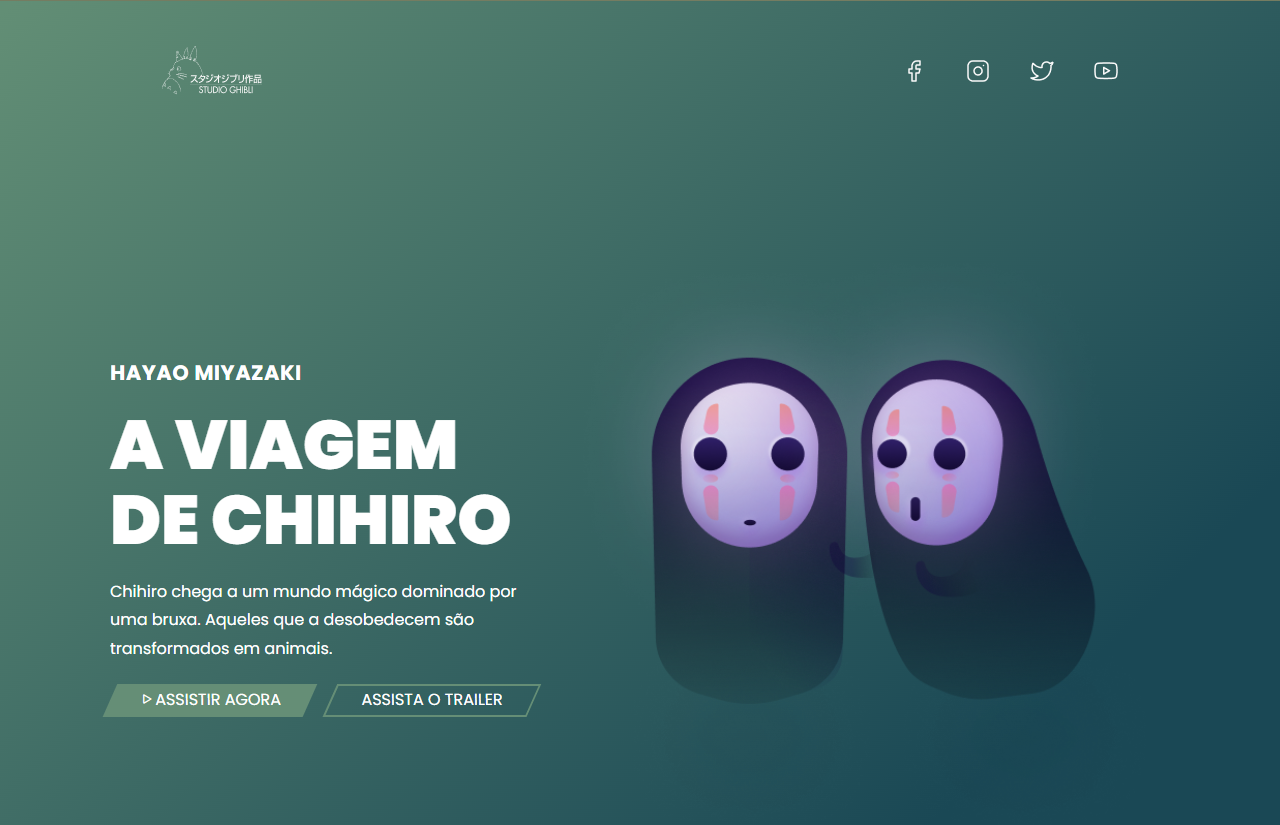
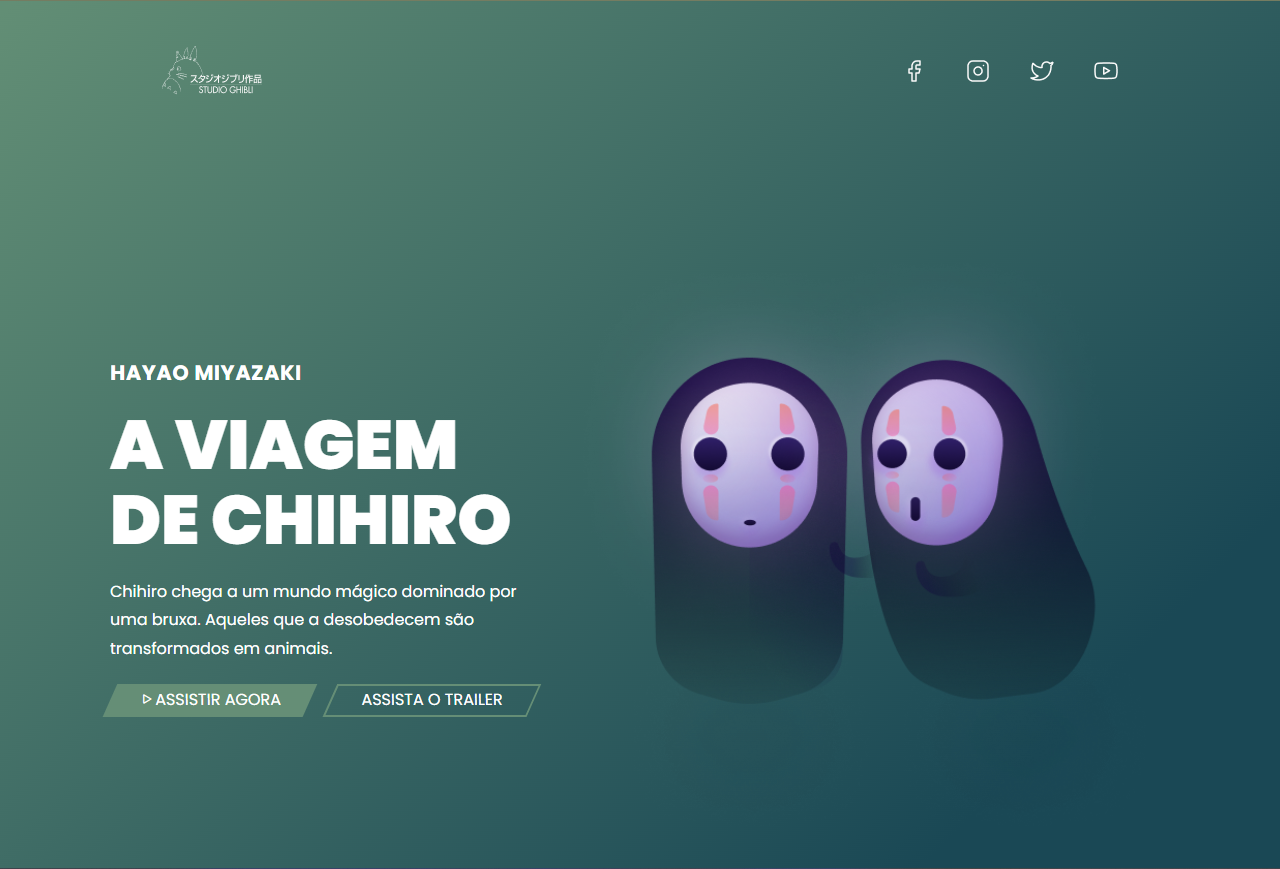
Ajuste nos cards de projetos e ajuste do hover dos icones que linka para as paginas

diff --git a/style.css b/style.css
@@ -9,45 +9,22 @@
     font-family: 'Sora';
 }
 
+body {
+    display: flex;
+    flex-flow: column nowrap;
+    width: 100vw;
+}
+
 header {
     display: flex;
-    flex-direction: column;
+    flex-flow: column nowrap;
     justify-content: center;
     color: white;
     height: 400px;
-    width: 100vw;
     background: rgb(34,193,195);
     background: linear-gradient(20deg, rgba(34,193,195,1) 0%, rgb(57, 15, 211) 100%);
-    box-shadow: 0px 8px 20px rgb(57, 15, 211);
+    box-shadow: 0px 8px 20px #555;
 }
-
-/* header::before {
-    content: "";
-    position: absolute;
-    left: 0;
-    right: 0;
-    z-index: -1;
-    background: linear-gradient(0deg, rgba(255, 255, 255, 0), rgba(24, 0, 63, 0.99));
-    background-size: 25vw;
-    height: 25vw;
-}
-
-header::after {
-    content: "";
-    position: absolute;
-    left: 0;
-    right: 0;
-    z-index: -2;
-    background: url(img/header-wallpaper3.png) no-repeat;
-    background-size: 25vw;
-    background-position: center;
-    height: 25vw;
-    -webkit-filter: blur(5px);
-    -moz-filter: blur(5px);
-    -o-filter: blur(5px);
-    -ms-filter: blur(5px);
-    filter: blur(5px);
-} */
 
 .header-time{
     display: flex;
@@ -77,20 +54,50 @@ main {
     width: 90vw;
     display: flex;
     flex-flow: row wrap;
-    justify-content: space-around;
+    justify-content: space-evenly;
     align-items: center;
-    gap: 10px;
+    gap: 40px 15px;
 }
 
-.projects img {
-    box-shadow: 2px 5px 10px #4c199efc;
+.project {
+    display: flex;
+    align-items: center;
+    justify-content: center;
+}
+
+.project-img {
+    box-shadow: 2px 5px 10px #444;
     width: 530px;
     border-radius: 5px;
+    display: block;
 }
 
-.projects img:hover {
-    cursor: pointer;
-    
+.project:hover {
+    transition: 1s;
+    filter: blur(1px);
+}
+
+.project:hover .overlay {
+    opacity: 1;
+}
+
+.overlay {
+    width: 530px;
+    position: absolute;
+    display: flex;
+    justify-content: center;
+    flex-flow: row nowrap;
+    column-gap: 40px;
+    opacity: 0;
+    transition: .3s ease;
+}
+
+.bi {
+    font-size: 90px;
+}
+
+.project:hover .bi::after{
+
 }
 
 @media only screen and (min-width: 1025px) {
@@ -111,32 +118,14 @@ main {
     }
 
     .header-time{
-        padding-left: 1vw;
+        padding-left: 2vw;
     }
 }
 
-@media only screen and (max-width: 480px) {
-    header {
-        height: 100vw;
-        text-align: left;
-    }
+@media only screen and (max-width:768px) {
 
-    header::before {
-        background-size: 100vw;
-        height: 100vw;
-    }
-    
-    header::after {
-        background-size: 80vw;
-        height: 80vw;
-        -webkit-filter: blur(14px);
-        -moz-filter: blur(14px);
-        -o-filter: blur(14px);
-        -ms-filter: blur(14px);
-        filter: blur(14px);
-    }
+.project-img {
+    width: 340px;
+}
 
-    .header-time{
-        justify-content: center;
-    }
 }

diff --git a/index.html b/index.html
@@ -6,6 +6,7 @@
     <title>Document</title>
     <link rel="stylesheet" href="style.css">
     <!-- <link rel="stylesheet" href="style-stars.css"> -->
+    <link rel="stylesheet" href="https://cdn.jsdelivr.net/npm/bootstrap-icons@1.11.1/font/bootstrap-icons.css">
 </head>
 <body>
     <div class="header-time">
@@ -23,18 +24,33 @@
         <h1>Alguns de meus projetos</h1>
 
         <div class="projects">
-            <div>
-                <a href=""><i></i></a>
-                <img src="img/codelandia-d2.png" alt="">
+            <div class="project">
+                <img src="img/codelandia-d2.png" alt="" class="project-img">
+                <div class="overlay">
+                    <a href="https://github.com/DevRodriguera/Codelandia-D2-ProductList" target="_blank"><i class="bi bi-github"></i></a>
+                    <a href="https://codelandia-d2-product-list.vercel.app/" target="_blank"><i class="bi bi-link"></i></a>
+                </div>
             </div>
-            <div>
-                <img src="img/codelandia-d3.png" alt="">
+            <div class="project">
+                <img src="img/codelandia-d3.png" alt="" class="project-img">
+                <div class="overlay">
+                    <a href="https://github.com/DevRodriguera/Codelandia-D3-ListAndForms" target="_blank"><i class="bi bi-github"></i></a>
+                    <a href="https://codelandia-d3-list-and-forms.vercel.app/" target="_blank"><i class="bi bi-link"></i></a>
+                </div>
             </div>
-            <div>
-                <img src="img/codelandia-d4.png" alt="">
+            <div class="project">
+                <img src="img/codelandia-d4.png" alt="" class="project-img">
+                <div class="overlay">
+                    <a href="https://github.com/DevRodriguera/Codelandia-D4-LoginPage" target="_blank"><i class="bi bi-github"></i></a>
+                    <a href="https://codelandia-d4-login-page.vercel.app/" target="_blank"><i class="bi bi-link"></i></a>
+                </div>
             </div>
-            <div>
-                <img src="img/codelandia-d5.png" alt="">
+            <div class="project">
+                <img src="img/codelandia-d5.png" alt="" class="project-img">
+                <div class="overlay">
+                    <a href="https://github.com/DevRodriguera/Codelandia-D5-ChihiroTrailer" target="_blank"><i class="bi bi-github"></i></a>
+                    <a href="https://codelandia-d5-chihiro-trailer.vercel.app/" target="_blank"><i class="bi bi-link"></i></a>
+                </div>
             </div>
         </div>
     </main>
